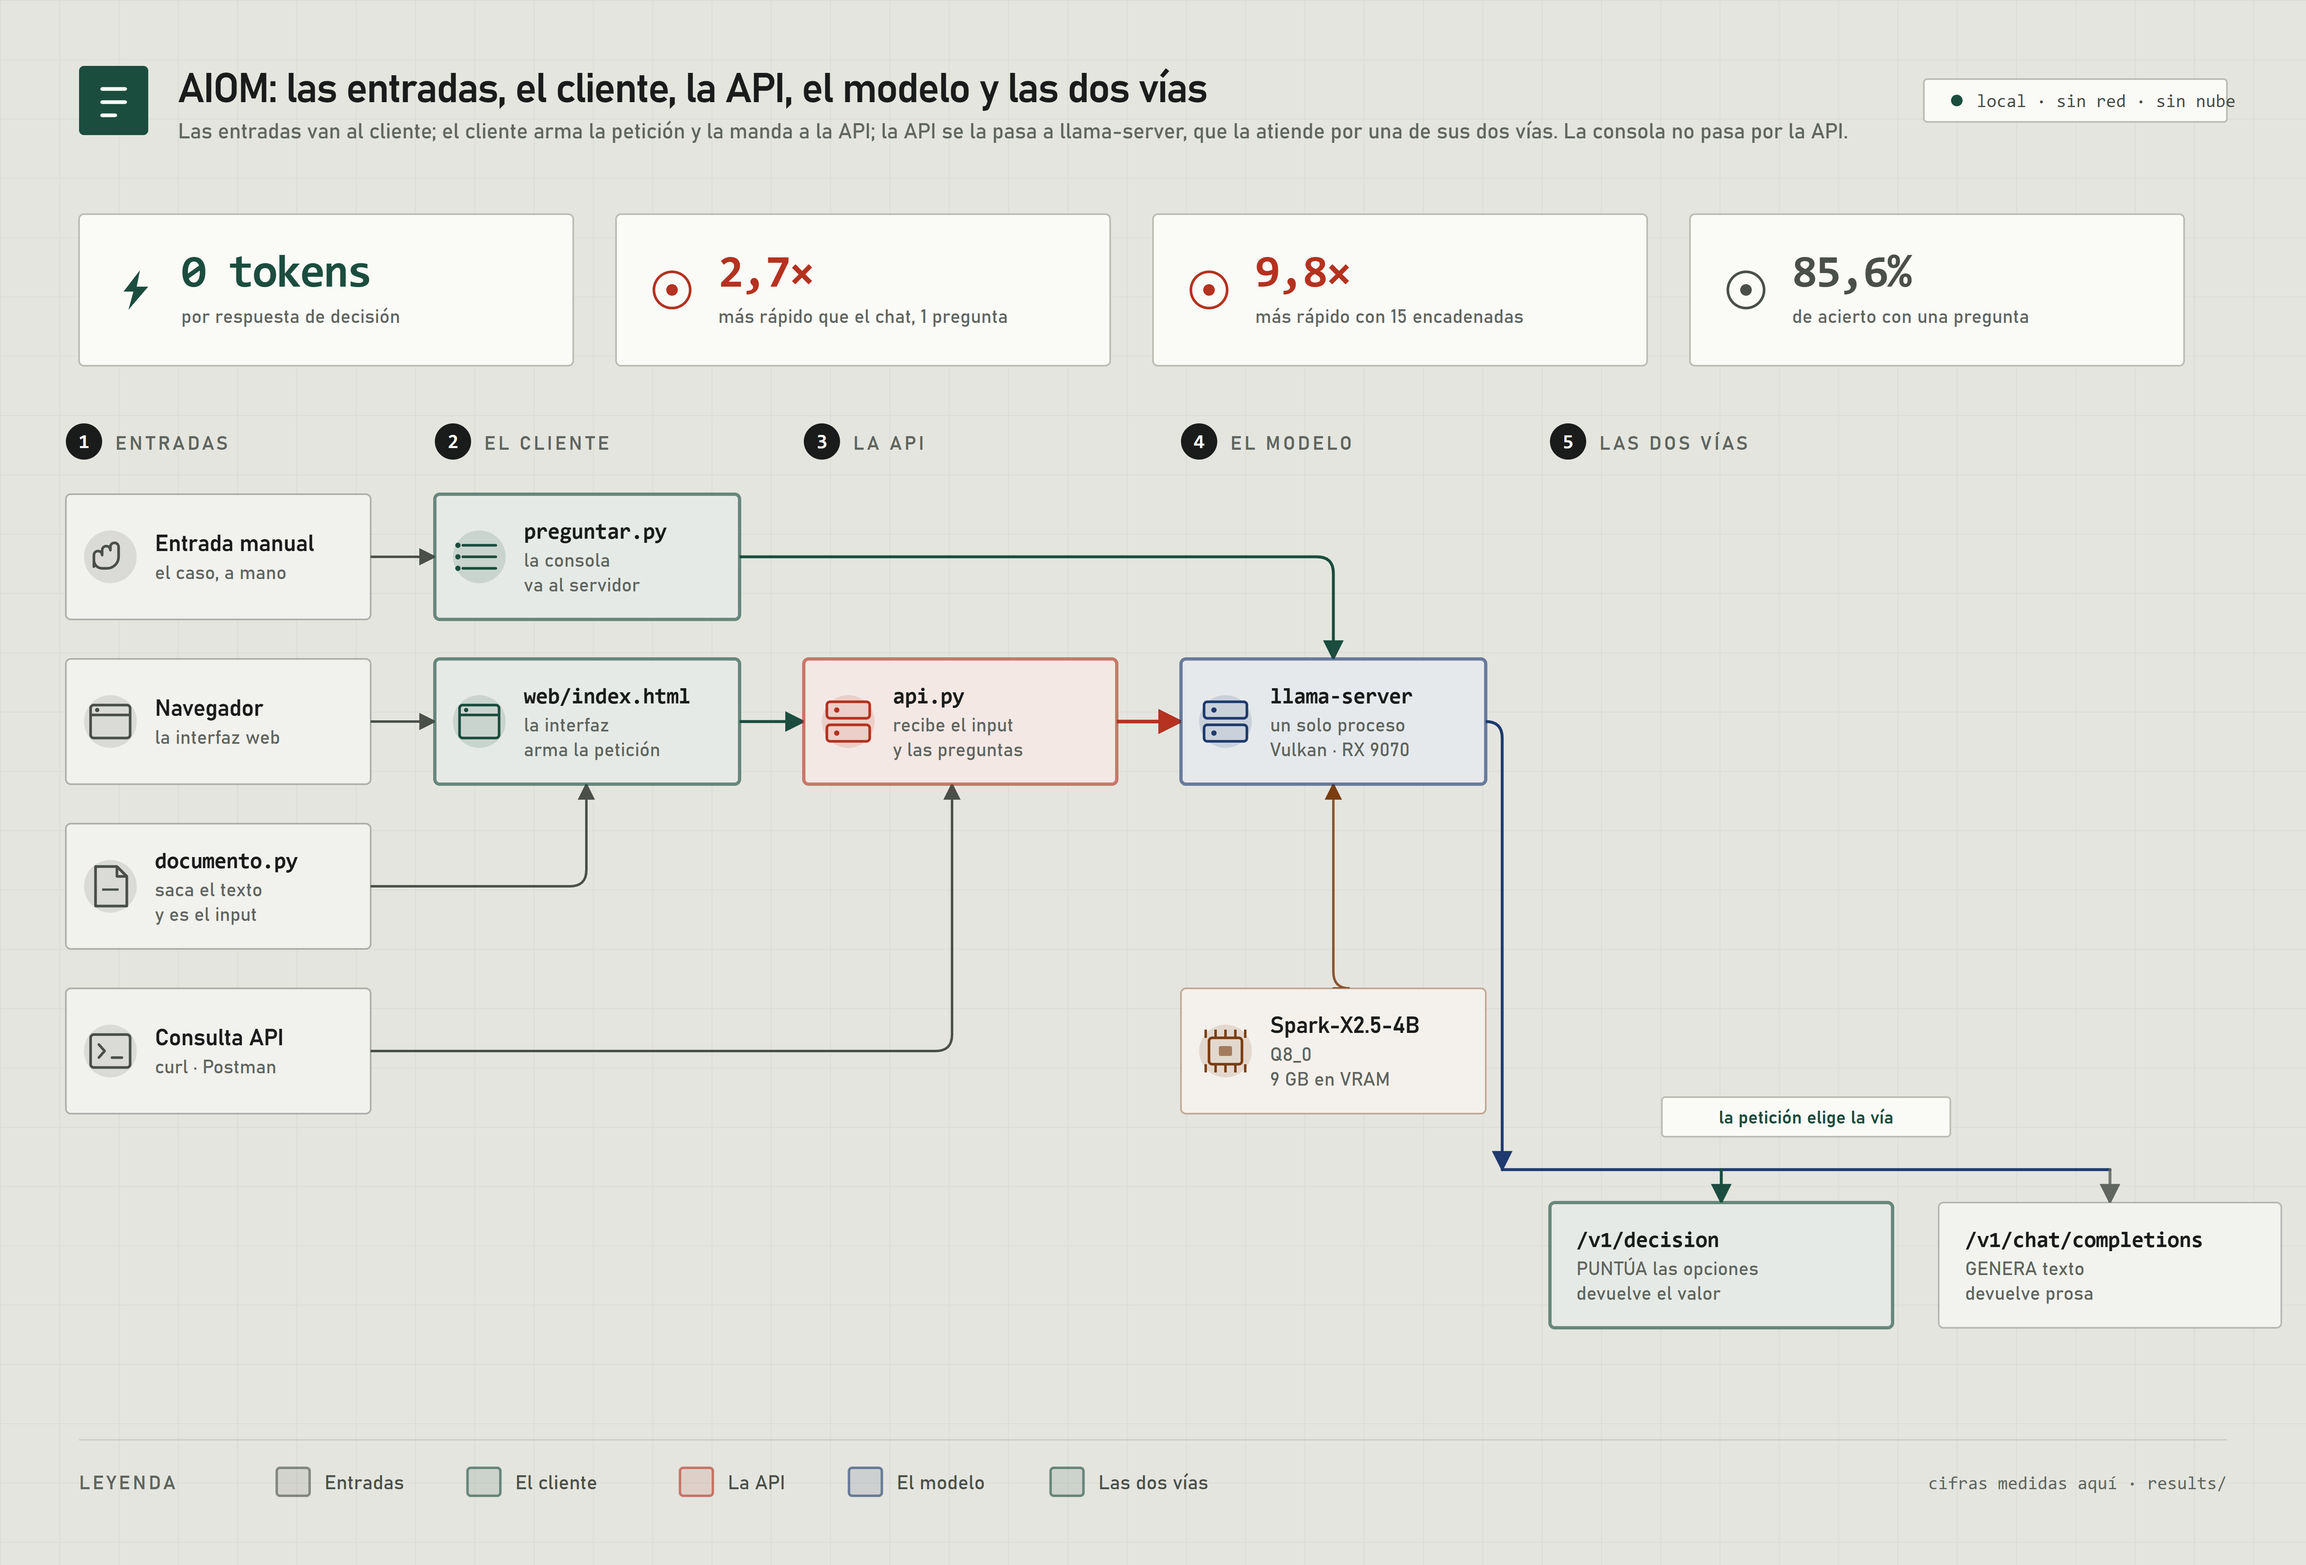
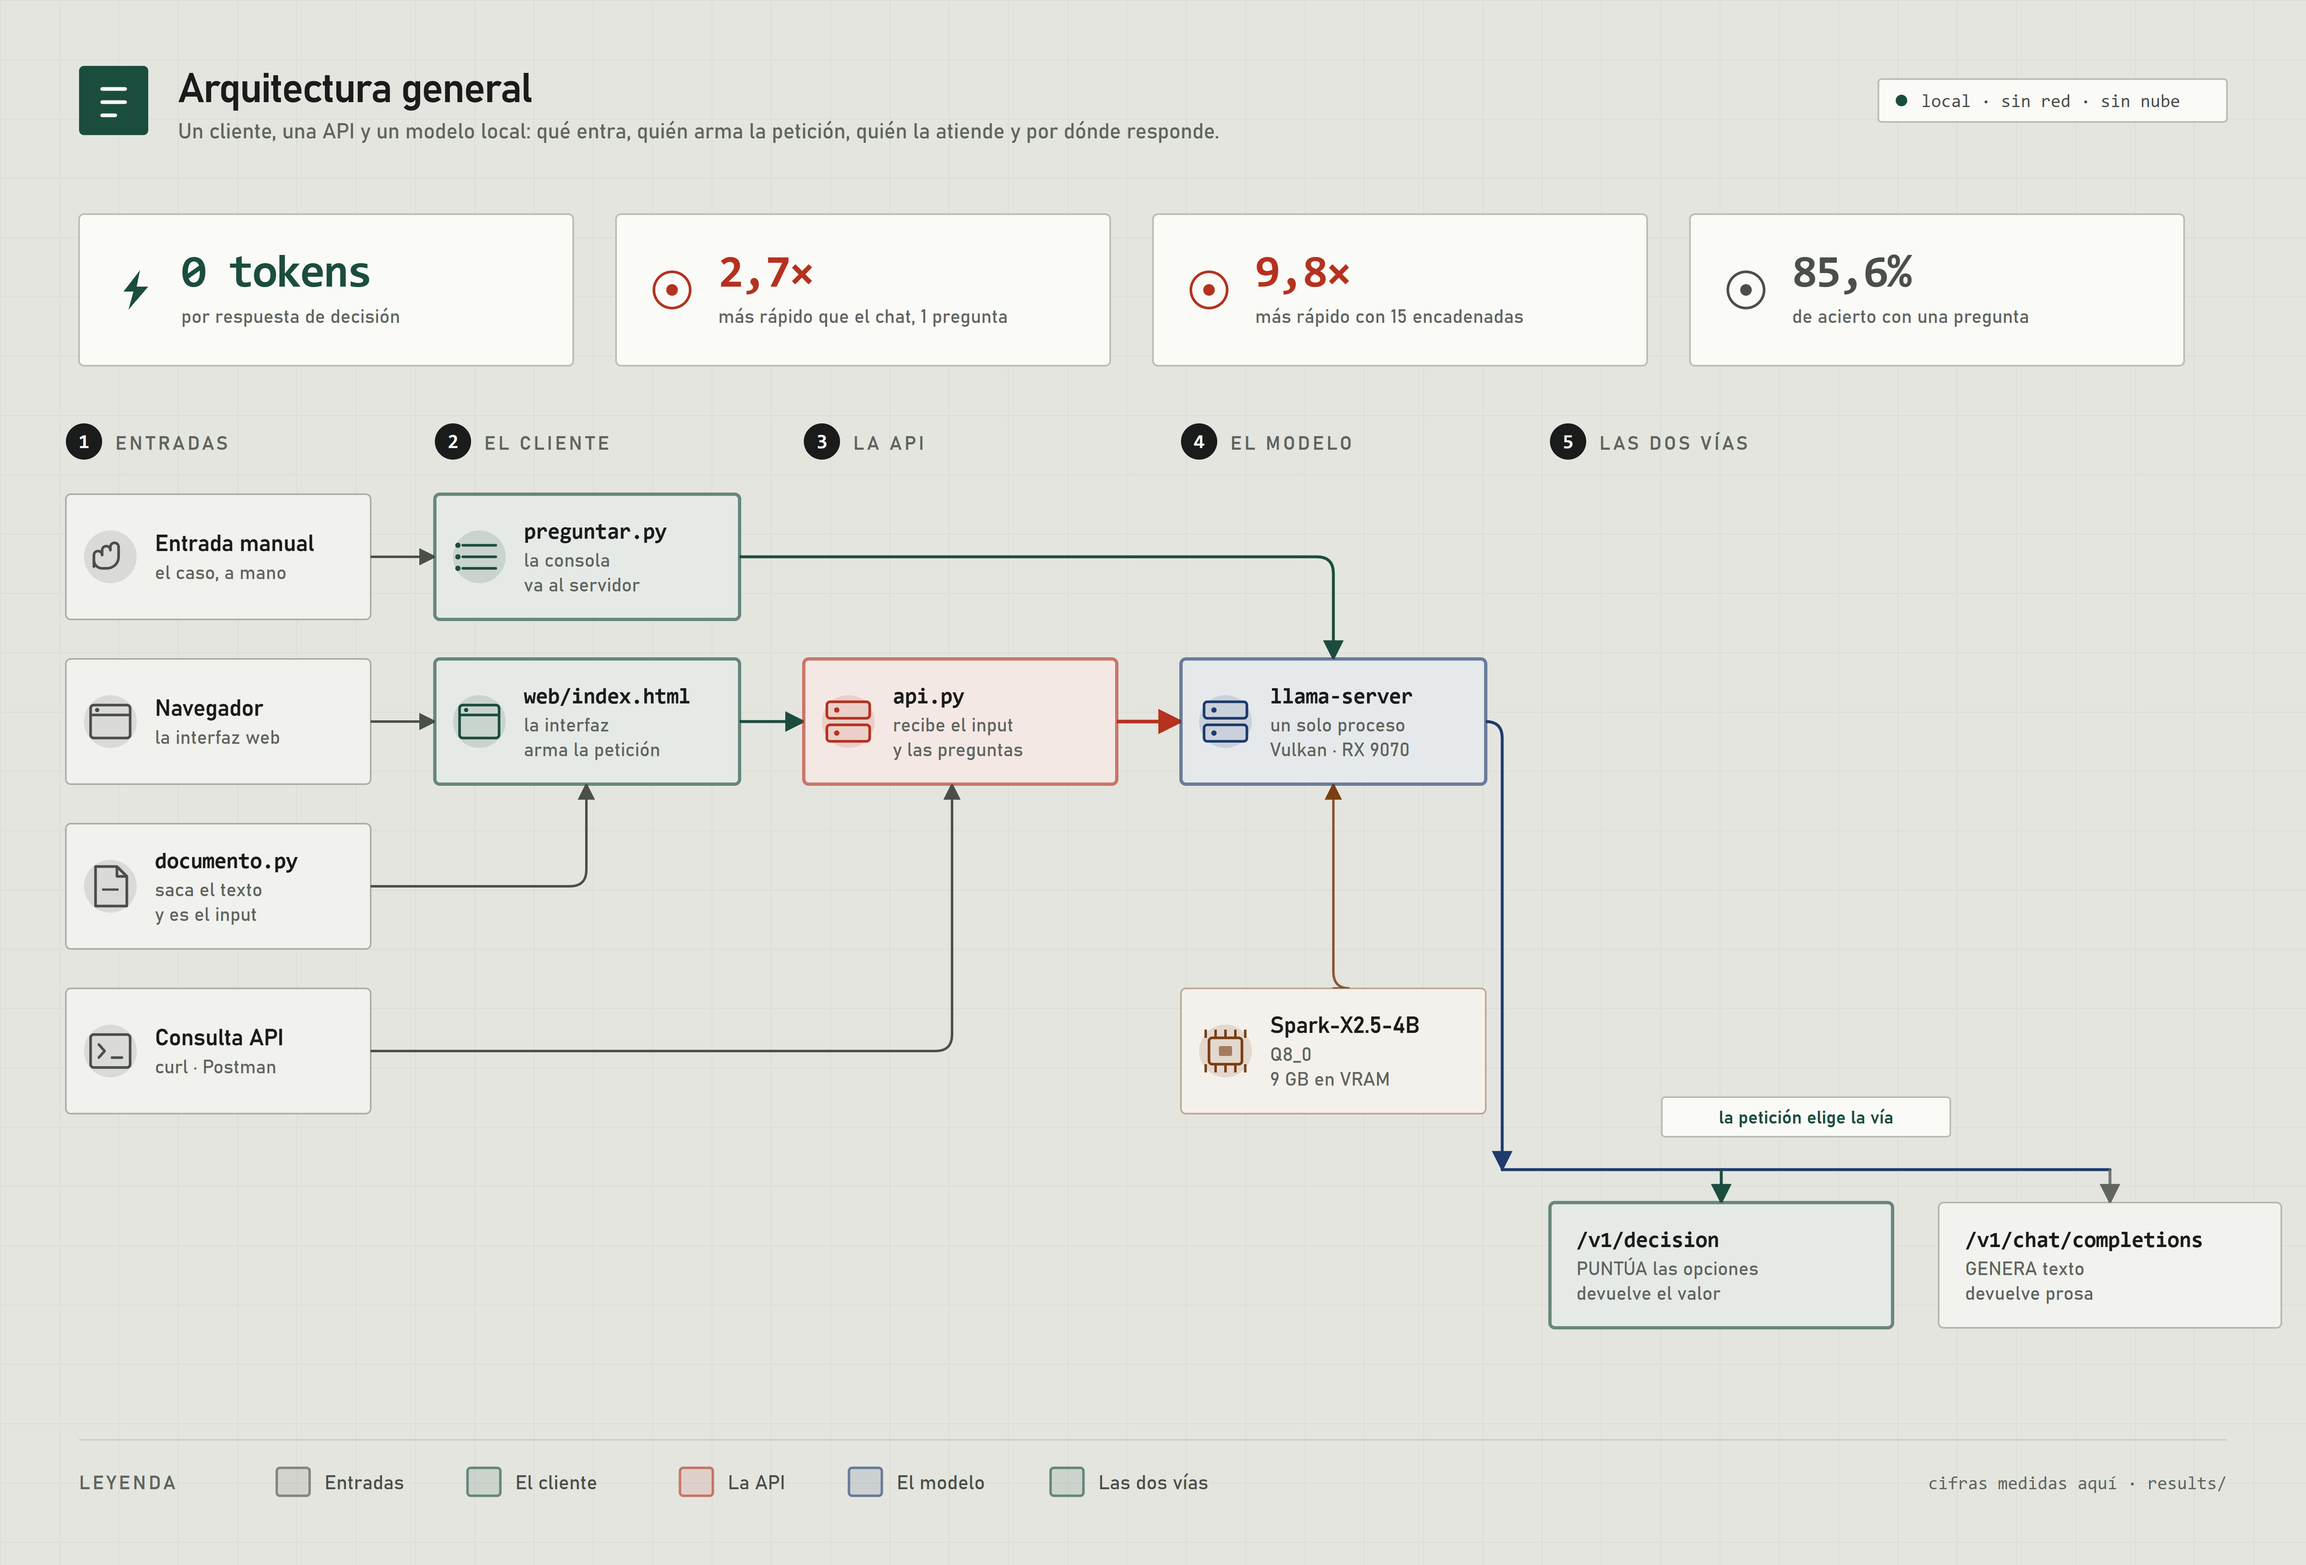
La cabecera del diagrama: titulo que dice que es, y la chapa a la medida de su texto
Tres cosas que se veian mal, y las tres eran mias:

1. LA CHAPA DE ARRIBA A LA DERECHA medía 184 fijos y su texto pedia 189: el texto se
   salia 5px de la pildora y se montaba encima de la linea de debajo. Ahora el ancho se
   CALCULA desde el texto -caja_chapa()-, no se estima a ojo. Y como la monoespaciada es
   mas ancha por caracter que la de texto, ancho_texto() gana el parametro mono: medir
   'local · sin red · sin nube' con la tabla de la sans era el error de raiz.

2. EL TITULO ERA UN ENUMERADO, no un titulo: 'AIOM: las entradas, el cliente, la API, el
   modelo y las dos vias'. Ahora dice QUE es el dibujo: 'Arquitectura general'.

3. LA LINEA DE DEBAJO describia el recorrido paso a paso, que es justo lo que ya dicen
   las flechas. Ahora es una descripcion: que se esta mirando y con que piezas.

Y la comprobacion que faltaba, que es la que habria cazado las tres: que el titulo y la
descripcion quepan, y que la descripcion no llegue a la chapa. En el navegador se anade
la equivalente general -cada texto, dentro del recuadro que lo contiene-, que es lo que
ahora vigila que ningun texto se salga de su tarjeta, chapa o pildora.

Verificado: 11 tarjetas + 17 tramos + 1 etiqueta en el script, y en el navegador 59
textos con 0 solapados, 0 fuera del lienzo y 0 que se salgan de su caja.

Changed region(s): [[0.0938, 0.0311, 0.6562, 0.0932], [0.6875, 0.0621, 0.7812, 0.0932], [0.8125, 0.0621, 0.8438, 0.0932]]

diff --git a/diagrama.py b/diagrama.py
@@ -57,6 +57,13 @@ MONO = "Consolas, ui-monospace, SFMono-Regular, Menlo, monospace"
 ANCHO, ALTO = 1400, 950
 Y_ROTULO = 268                             # la linea de los rotulos de columna
 
+# La cabecera: un titulo que dice QUE es el dibujo y, debajo, una descripcion. No el
+# recorrido paso a paso -eso ya lo dicen las flechas-, sino que se esta mirando.
+TITULO = "Arquitectura general"
+DESCRIPCION = ("Un cliente, una API y un modelo local: qué entra, quién arma la petición, "
+               "quién la atiende y por dónde responde.")
+CHAPA = "local · sin red · sin nube"
+
 # Las seis columnas y sus anchos. Se declaran UNA vez: las conexiones y las
 # comprobaciones leen de aqui, asi que no pueden desincronizarse.
 COL_ENTRADA, W_ENTRADA = 40, 185           # 40 - 225
@@ -84,8 +91,14 @@ def esc(t):
     return t.replace("&", "&amp;").replace("<", "&lt;").replace(">", "&gt;")
 
 
-def ancho_texto(t, tam: float = 13, negrita: bool = False) -> float:
-    """Ancho aproximado, para no dibujar texto que no cabe."""
+def ancho_texto(t, tam: float = 13, negrita: bool = False, mono: bool = False) -> float:
+    """Ancho aproximado, para no dibujar texto que no cabe.
+
+    La monoespaciada es mas ancha por caracter que la de texto: si se midiera igual, los
+    titulos en mono -y la chapa de la cabecera- se saldrian de su caja.
+    """
+    if mono:
+        return len(t) * tam * 0.6
     return len(t) * tam * (0.58 if negrita else 0.55)
 
 
@@ -217,6 +230,16 @@ def rotulo_columna(x, numero, texto):
     ])
 
 
+def caja_chapa():
+    """La chapa de la cabecera (x, y, ancho, alto), con el ancho sacado de su texto.
+
+    Antes media 184 fijos y su texto pedia 189: se salia 5px y se montaba encima de la
+    descripcion. El ancho se calcula, no se estima a ojo.
+    """
+    an = 26 + ancho_texto(CHAPA, 11, mono=True) + 14
+    return ANCHO - 48 - an, 48, an, 26
+
+
 def pildora(x, y, texto, color):
     """La etiqueta de una flecha: una pastilla sobre el papel, con su texto."""
     an = ancho_texto(texto, 11, True) + 22
@@ -340,7 +363,7 @@ def comprobar():
     fallos = []
     for tit, x, y, w, h, lns, _c, ic, mono, _d in CAJAS:
         necesita = (54 if ic else 16) + max(
-            [ancho_texto(tit, 13.5 if mono else 14, True)]
+            [ancho_texto(tit, 13.5 if mono else 14, True, mono=mono)]
             + [ancho_texto(l, 11.5) for l in lns])
         if necesita > w - 12:
             fallos.append(f"«{tit}»: el texto pide {necesita:.0f}px, la caja tiene {w}")
@@ -399,6 +422,19 @@ def comprobar():
                     fallos.append(f"una flecha pasa por encima de «{caja[0]}»")
                     break
 
+    # La cabecera: el titulo y la descripcion tienen que caber, y la descripcion no puede
+    # llegar a la chapa. Es el mismo fallo que tenian las pildoras de las tarjetas, pero
+    # en la cabecera, y aqui no habia ninguna comprobacion.
+    cx0, cy0, cw0, _ch0 = caja_chapa()
+    if 108 + ancho_texto(TITULO, 25, True) > ANCHO - 48:
+        fallos.append("el titulo de la cabecera se sale del lienzo")
+    if 108 + ancho_texto(DESCRIPCION, 13) > cx0 - 24:
+        fallos.append("la descripcion de la cabecera llega a la chapa")
+    if 26 + ancho_texto(CHAPA, 11, mono=True) + 14 > cw0:
+        fallos.append("la chapa de la cabecera no da para su texto")
+    if cx0 < 10 or cx0 + cw0 > ANCHO - 10:
+        fallos.append("la chapa de la cabecera se sale del lienzo")
+
     if Y_ROTULO - 40 < 226:
         fallos.append("los rotulos de columna pisan las metricas")
     if FILA_VIA + H > ALTO - 90:
@@ -436,17 +472,15 @@ def main():
              f'stroke-width="2.2" stroke-linecap="round"/>')
     s.append(f'<text x="108" y="62" font-family="{SANS}" font-size="25" '
              f'font-weight="600" letter-spacing="-0.9" fill="{TINTA}">'
-             f'AIOM: las entradas, el cliente, la API, el modelo y las dos vías</text>')
+             f'{esc(TITULO)}</text>')
     s.append(f'<text x="108" y="84" font-family="{SANS}" font-size="13" '
-             f'letter-spacing="-0.1" fill="{TXT3}">Las entradas van al cliente; el '
-             f'cliente arma la petición y la manda a la API; la API se la pasa a '
-             f'llama-server, que la atiende por una de sus dos vías. La consola no pasa '
-             f'por la API.</text>')
-    s.append(f'<rect x="{ANCHO-232}" y="48" width="184" height="26" rx="2" '
+             f'letter-spacing="-0.1" fill="{TXT3}">{esc(DESCRIPCION)}</text>')
+    cx0, cy0, cw0, ch0 = caja_chapa()
+    s.append(f'<rect x="{cx0}" y="{cy0}" width="{cw0}" height="{ch0}" rx="2" '
              f'fill="{PAPEL}" stroke="{HAIRLINE2}" stroke-width="1"/>')
-    s.append(f'<circle cx="{ANCHO-212}" cy="61" r="3.5" fill="{REGLA}"/>')
-    s.append(f'<text x="{ANCHO-200}" y="65" font-family="{MONO}" font-size="11" '
-             f'fill="{TXT2}">local · sin red · sin nube</text>')
+    s.append(f'<circle cx="{cx0+14}" cy="{cy0+13}" r="3.5" fill="{REGLA}"/>')
+    s.append(f'<text x="{cx0+26}" y="{cy0+17}" font-family="{MONO}" font-size="11" '
+             f'fill="{TXT2}">{esc(CHAPA)}</text>')
 
     # ---------------------------------------------------------- metricas
     for k, (val, pie, col, ic) in enumerate((
